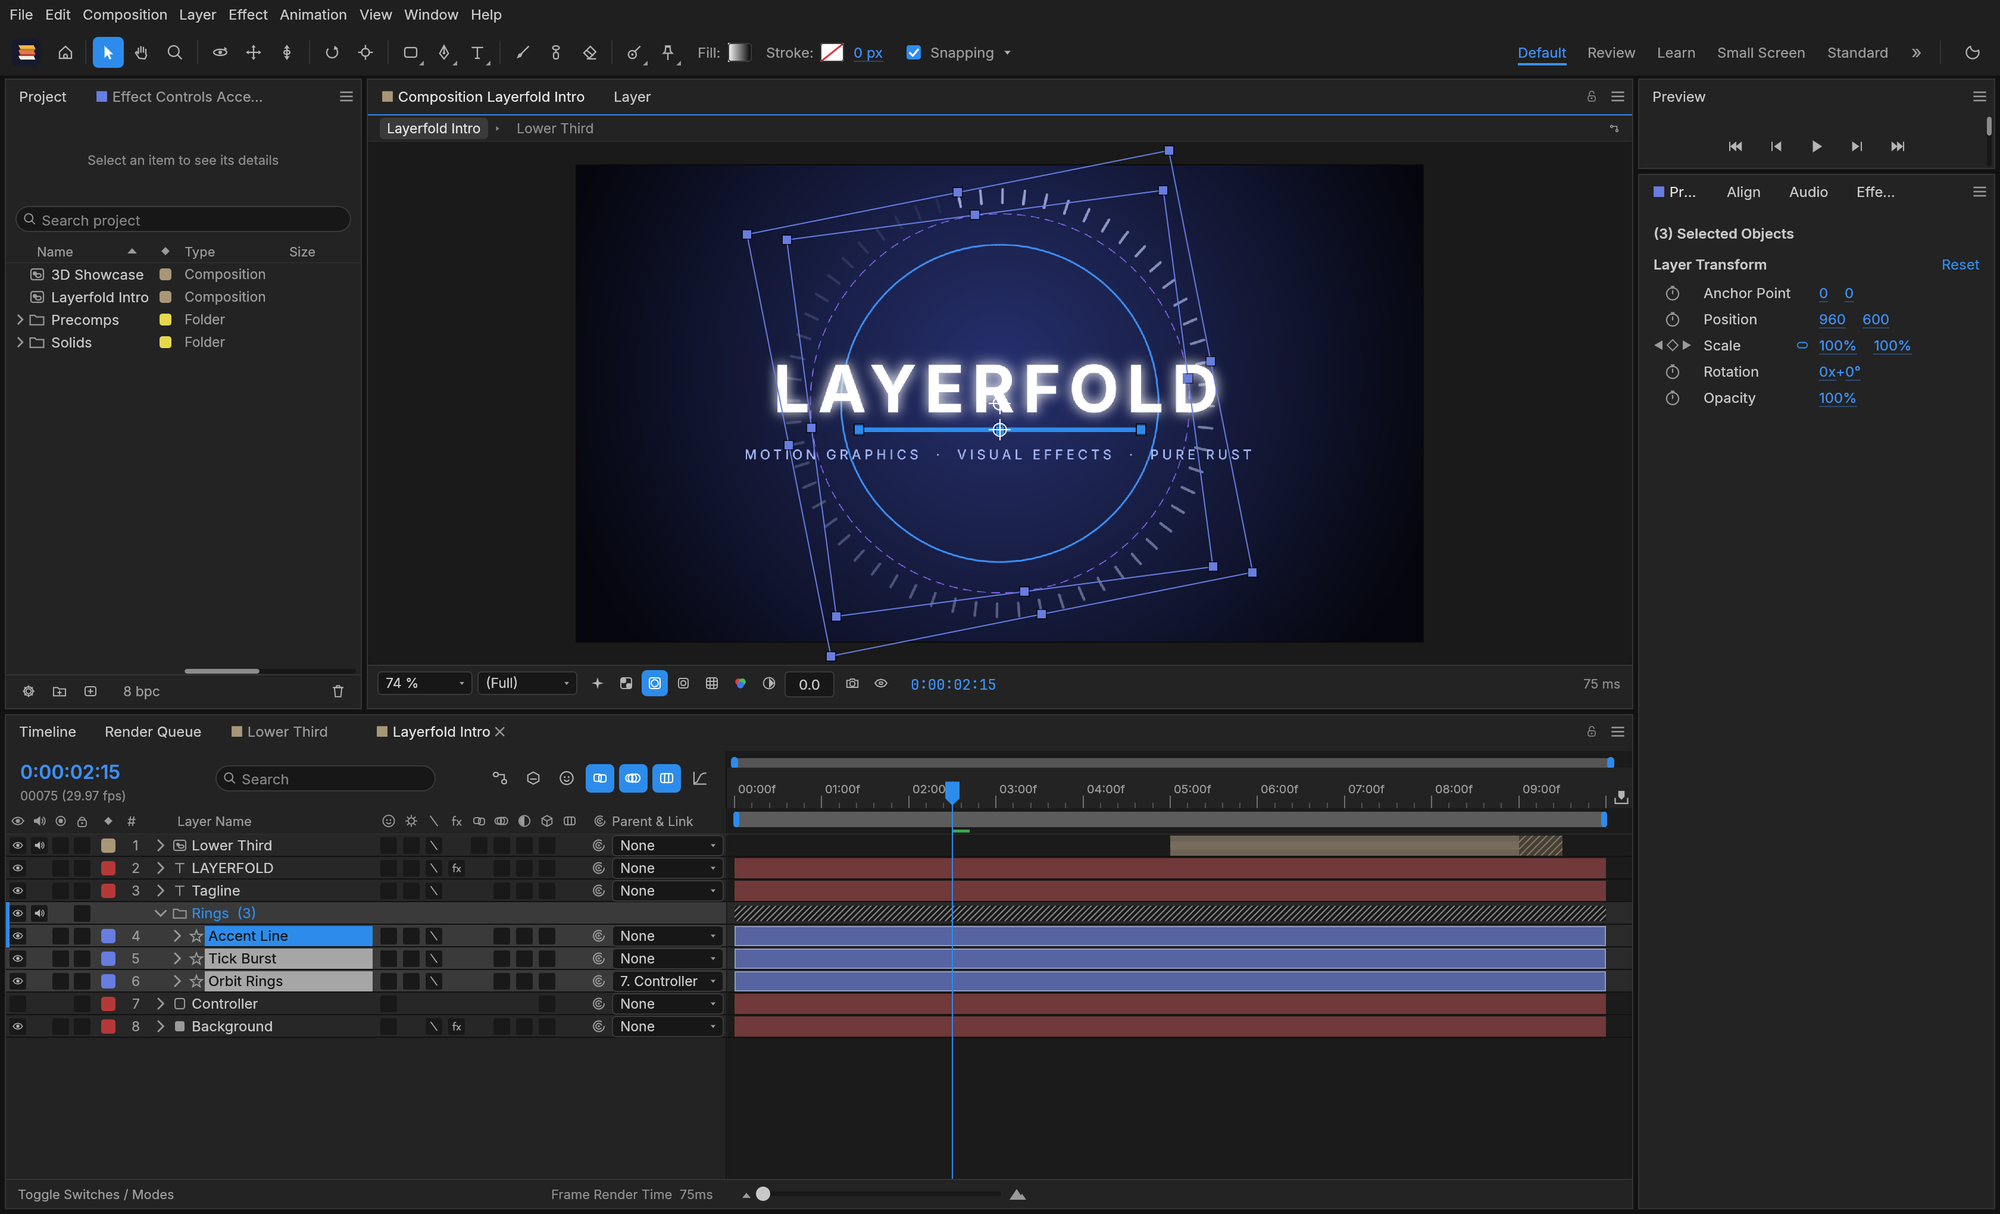
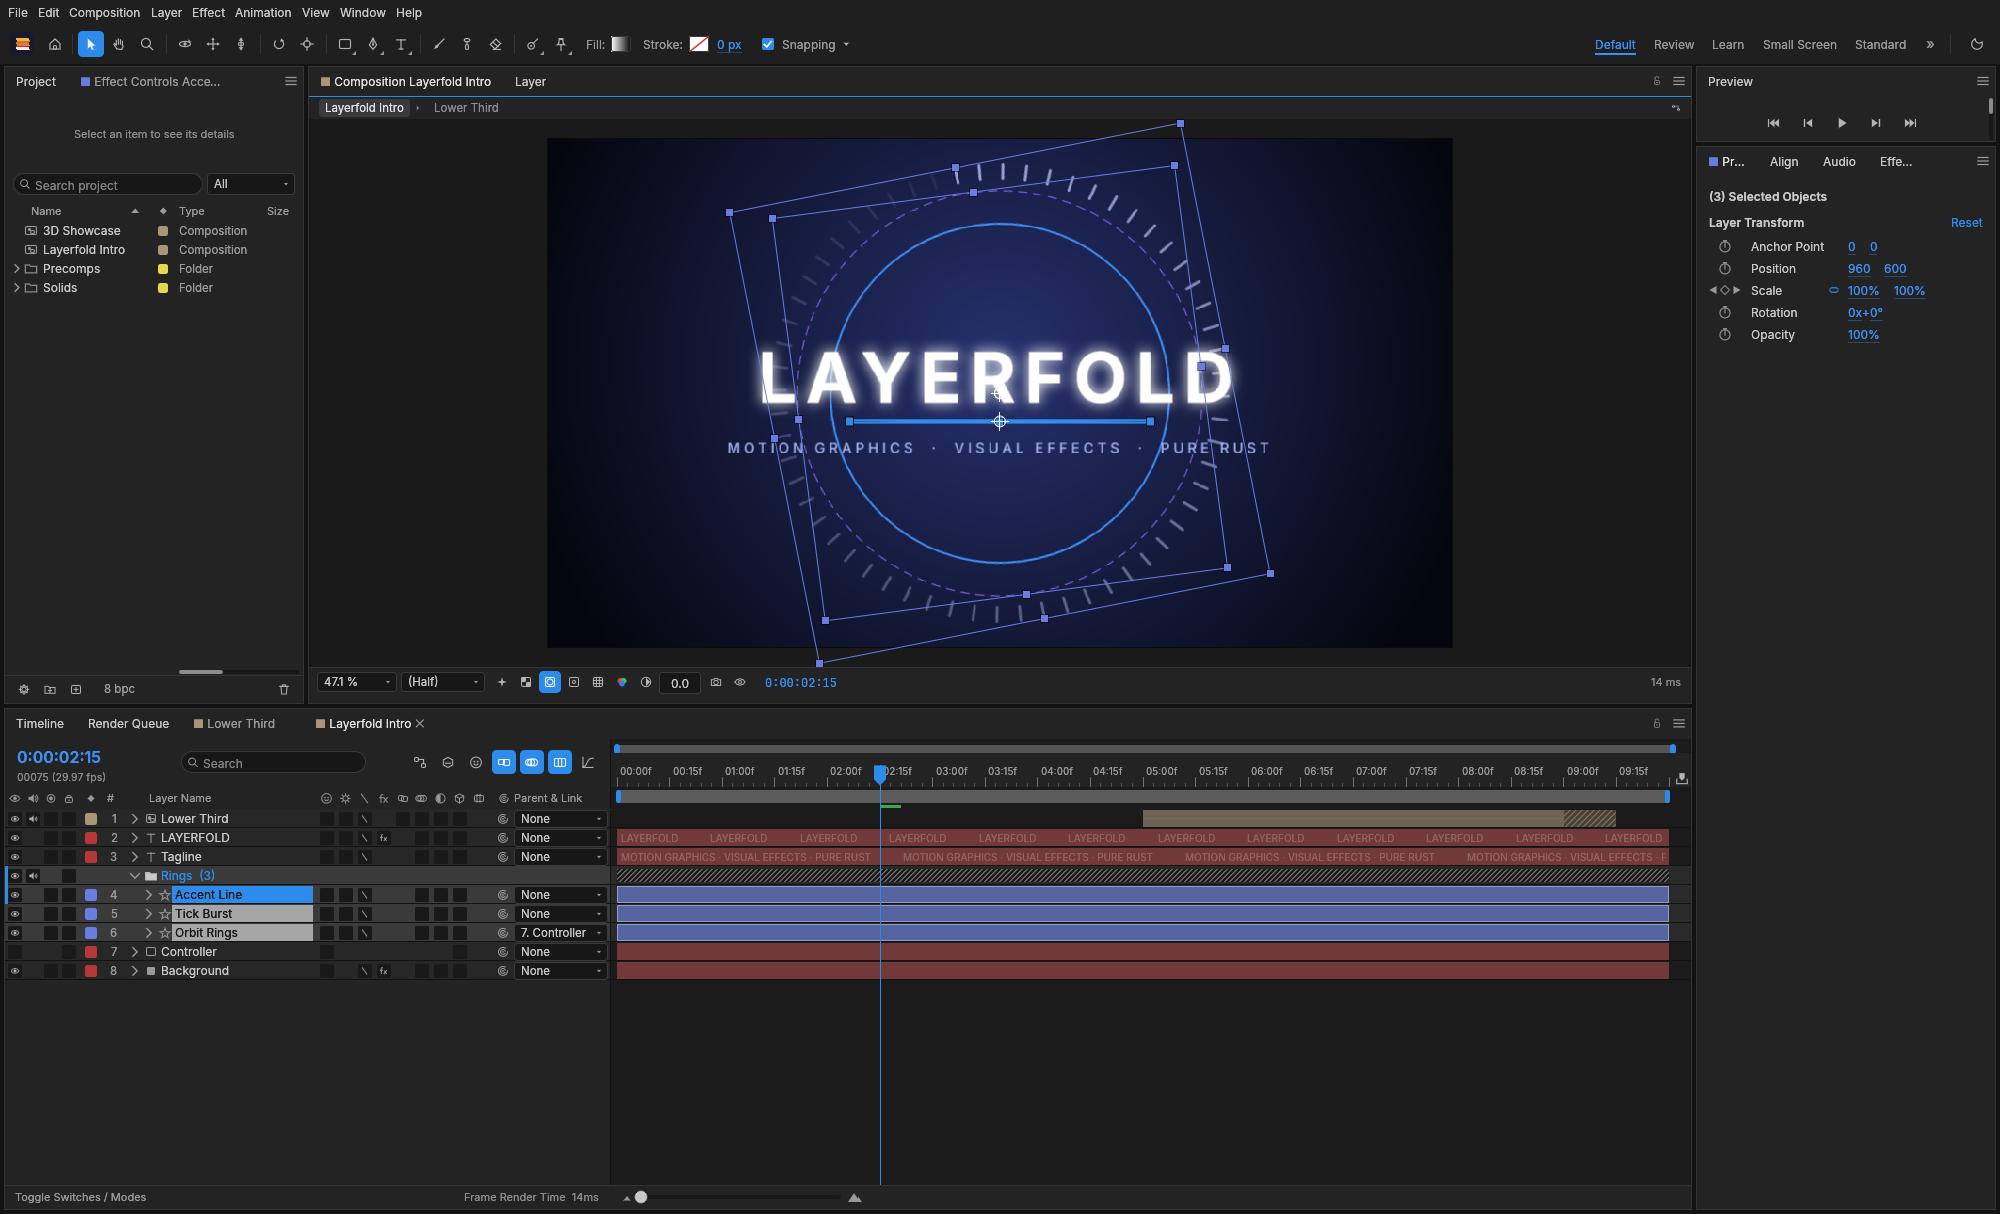
Show the new timeline look on the front page

diff --git a/editor/scripts/demo/capture.py b/editor/scripts/demo/capture.py
@@ -32,6 +32,8 @@ class Film:
         shutil.rmtree(self.dir, ignore_errors=True)
         self.dir.mkdir(parents=True)
         self.steps = [cmd("file.open", path=str(WORK / "scene.ecproj"))]
+        self.done = []
+        self.head = 1
         self.frames = []
         self.pos = start
         self.hint = None
@@ -40,6 +42,12 @@ class Film:
 
     def setup(self, *steps):
         self.steps.extend(steps)
+        self.head = len(self.steps)
+
+    def restart(self, *replay):
+        """The rest of the film runs in a fresh app, brought back to this state by `replay`."""
+        self.done.append(self.steps)
+        self.steps = self.steps[: self.head] + list(replay)
 
     def shot(self):
         path = self.dir / f"s{self.shots:04}.png"
@@ -104,10 +112,10 @@ class Film:
         self.frame()
 
     def film(self):
-        replies = snapshot(self.steps, settle=6.0)
-        for r in replies:
-            if isinstance(r.get("reply"), dict) and r["reply"].get("ok") is False:
-                print("step failed:", r)
+        for steps in self.done + [self.steps]:
+            for r in snapshot(steps, settle=6.0):
+                if isinstance(r.get("reply"), dict) and r["reply"].get("ok") is False:
+                    print("step failed:", r)
         self.assemble()
 
     def assemble(self):
@@ -186,8 +194,9 @@ def time_at(seconds):
 
 
 def slip():
-    f = Film("slip", FULL)
-    f.setup(time_at(3.5))
+    # The timeline only, playhead before the clips: repeated slips of a clip in the viewer make the
+    # headless GPU wait time out, cause unknown. The clip's frames on its bar show the slip.
+    f = Film("slip", TIMELINE)
     f.begin(0.8)
     f.go((tx(4.0), ROW["Dawn"]), 0.8)
     f.say("Alt + drag: pick another moment of the clip")
@@ -202,7 +211,20 @@ def slip():
     f.film()
 
 
+def pointer_drag(a, b, n=6, release=True):
+    """The same drag without any shots, to bring a restarted app back to a state."""
+    steps = [{"method": "pointer", "params": {"x": a[0], "y": a[1], "press": True, "settle": 0.06}}]
+    for i in range(1, n + 1):
+        k = i / n
+        steps.append({"method": "pointer", "params": {"x": a[0] + (b[0] - a[0]) * k, "y": a[1] + (b[1] - a[1]) * k, "settle": 0.06}})
+    if release:
+        steps.append({"method": "pointer", "params": {"x": b[0], "y": b[1], "release": True, "settle": 0.3}})
+    return steps
+
+
 def groups():
+    # A drop after a long run of shots makes the headless GPU wait time out, so each drop starts a
+    # fresh app. The cause is not known; short scripts with the same drop pass.
     f = Film("groups", FULL)
     f.setup(time_at(3.5))
     f.begin(0.8)
@@ -221,10 +243,12 @@ def groups():
     f.say("Drag a layer in or out of a group")
     f.go((190, ROW["Caption"]), 0.7)
     f.drag((190, 707), 0.9)
+    f.restart(*pointer_drag((190, ROW["Caption"]), (190, 707), release=False))
     f.release()
     f.hold(1.0)
     f.go((190, 697), 0.3)
     f.drag((190, TITLES_ROW), 0.9)
+    f.restart(*pointer_drag((190, ROW["Caption"]), (190, 707)), *pointer_drag((190, 697), (190, TITLES_ROW), release=False))
     f.release()
     f.say(None)
     f.go((1000, 780), 0.7)
@@ -300,6 +324,23 @@ def frames():
     f.film()
 
 
+def bartext():
+    f = Film("bartext", TIMELINE)
+    f.setup(cmd("timeline.zoomIn"), cmd("timeline.zoomIn"))
+    f.begin(0.6)
+    f.say("A text layer's bar repeats its text, faintly")
+    f.go((900, 770), 0.6)
+    f.hold(0.8)
+    f.drag((640, 770), 1.2, button="middle", settle=0.08)
+    f.pause_down(0.8)
+    f.drag((900, 770), 1.2, button="middle", settle=0.08, press=False)
+    f.release("middle")
+    f.say(None)
+    f.go((1000, 780), 0.4)
+    f.hold(0.5)
+    f.film()
+
+
 def hero():
     jsx = REPO / "editor/scripts/demo/hero.jsx"
     project, video = WORK / "hero.ecproj", WORK / "hero.mp4"
@@ -318,7 +359,7 @@ def hero():
     print(gif.name, f"{gif.stat().st_size / 1e6:.2f} MB")
 
 
-FILMS = {"hero": hero, "groups": groups, "snap": snap, "pan": pan, "slip": slip, "trim": trim, "frames": frames}
+FILMS = {"hero": hero, "groups": groups, "snap": snap, "pan": pan, "slip": slip, "trim": trim, "frames": frames, "bartext": bartext}
 
 
 if __name__ == "__main__":

diff --git a/README.md b/README.md
@@ -19,7 +19,8 @@ itself, with only the cursor and the caption added on top. [CHANGES.md](CHANGES.
 
 A timeline with thirty layers gets hard to read, so layers can live in groups, and groups inside
 groups. A group has its own Video, Audio and Lock switches, and its bar shows where its layers sit in
-time, even when it is collapsed. Layers go in and out by dragging.
+time, even when it is collapsed. Its icon is a filled folder, so a group stands out from the layers
+around it. Layers go in and out by dragging.
 
 ![Hiding a group, collapsing it and dragging a layer into it](docs/images/demo/groups.gif)
 
@@ -42,7 +43,7 @@ keyframes and group edges within 8 pixels. A line and a label show what it caugh
 
 An edge stops at the start or end of the source, so you see when you run out of footage. Keep pulling
 and it goes past into a frozen frame, drawn hatched. Layer ▸ Time ▸ Trim to Source stretches a clip
-to the whole video.
+to the whole video. A thin, faint line along the track shows how far the source reaches past the clip.
 
 ![A clip edge stopping at the start of its source, then going past it](docs/images/demo/trim.gif)
 
@@ -60,11 +61,17 @@ layer list.
 
 ![Panning the timeline with the middle mouse button](docs/images/demo/pan.gif)
 
+### Text on the bars
+
+A text layer's bar repeats its text faintly along its length, so you can tell bars apart without
+looking across to the layer list.
+
+![A text layer's bar repeating its text while the timeline pans](docs/images/demo/bartext.gif)
+
 ### The rest
 
 Audio and solo can be changed during playback. Alt+click picks the active layer of a selection, the
-one a new group gathers around. A text layer's bar repeats its text faintly along its length, so you
-can tell bars apart anywhere on the timeline. The program installs from an MSI on Windows.
+one a new group gathers around. The program installs from an MSI on Windows.
 
 This version leaves a few things out on purpose. It doesn't check for updates, and it has no links to
 upstream's community and sibling apps, because those would read as their support for a build they

diff --git a/CHANGES.md b/CHANGES.md
@@ -33,6 +33,7 @@ this repository with that tag. Most of the changes are in `crates/ui-egui/`, `cr
 - Clip edges stick to the start and end of the source within 8 pixels and go past them into a frozen
   frame if you keep pulling.
 - Layer ▸ Time ▸ Trim to Source (`layer.trimToSource`) stretches a clip to the whole source.
+- A thin, faint line along the track shows how far the source reaches past the clip.
 - Video and image layers show frames on their tracks (`panels/filmstrip.rs`). They are off for nested
   compositions and layers with Time Remap. The header button `timeline.switch.layerFrames` turns them off
   for the timeline, and the layer switch `frames` turns them off for one layer. The second is saved in
